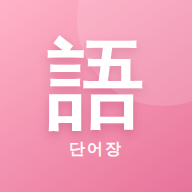
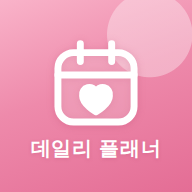
앱 아이콘을 데일리 플래너용으로 교체, 이름·아이콘 변경이 폰에 바로 반영되게
- 새 아이콘: 핑크 바탕에 하트 달력 + '데일리 플래너'
- 아이콘 주소에 버전(?v=2)을 붙여 폰·브라우저에 남은 예전 아이콘 대신 새 아이콘을 받게 함
- 서비스워커가 manifest(앱 이름·아이콘 정보)를 저장본 대신 인터넷에서 먼저 받도록 변경

Claude-Session: https://claude.ai/code/session_019cPRLGnsiTehy3UJiscV3o

Changed region(s): [[0.2188, 0.1875, 0.7812, 0.6875], [0.1562, 0.7188, 0.8438, 0.8438]]

diff --git a/sw.js b/sw.js
@@ -1,6 +1,6 @@
 // 오프라인 지원: 앱 화면은 저장해 두고, 인터넷이 되면 항상 최신 버전으로 갱신
-const CACHE = 'jp-words-v6';
-const APP = ['./', './index.html', './manifest.webmanifest', './icon-192.png', './icon-512.png', './apple-touch-icon.png'];
+const CACHE = 'jp-words-v7';
+const APP = ['./', './index.html', './manifest.webmanifest', './icon-192.png?v=2', './icon-512.png?v=2', './apple-touch-icon.png?v=2'];
 
 self.addEventListener('install', e => {
   e.waitUntil(caches.open(CACHE).then(c => c.addAll(APP)).then(() => self.skipWaiting()));
@@ -15,6 +15,12 @@ self.addEventListener('fetch', e => {
   if (req.method !== 'GET') return;
   const url = new URL(req.url);
   // 앱 화면: 인터넷 먼저(최신 반영), 안 되면 저장본
+  // 앱 이름·아이콘 정보(manifest)도 인터넷 먼저 → 이름을 바꾸면 바로 반영
+  if (url.origin === location.origin && url.pathname.endsWith('.webmanifest')) {
+    e.respondWith(fetch(req).then(res => { const copy = res.clone(); if (res.ok) caches.open(CACHE).then(c => c.put(req, copy)); return res; })
+      .catch(() => caches.match(req)));
+    return;
+  }
   if (req.mode === 'navigate' || (url.origin === location.origin && url.pathname.endsWith('/index.html'))) {
     const key = './index.html';
     e.respondWith(fetch(req).then(res => {

diff --git a/index.html b/index.html
@@ -8,8 +8,8 @@
 <title>🌸 데일리 플래너</title>
 <link rel="manifest" href="manifest.webmanifest">
 <script async src="https://cdn.jsdelivr.net/npm/@supabase/supabase-js@2/dist/umd/supabase.js" onload="window.__sbReady && window.__sbReady()"></script>
-<link rel="icon" type="image/png" sizes="192x192" href="icon-192.png">
-<link rel="apple-touch-icon" href="apple-touch-icon.png">
+<link rel="icon" type="image/png" sizes="192x192" href="icon-192.png?v=2">
+<link rel="apple-touch-icon" href="apple-touch-icon.png?v=2">
 <meta name="theme-color" content="#e8739a">
 <meta name="apple-mobile-web-app-capable" content="yes">
 <meta name="mobile-web-app-capable" content="yes">
